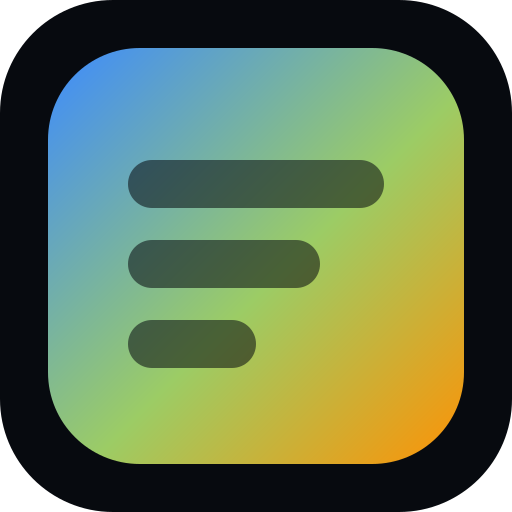
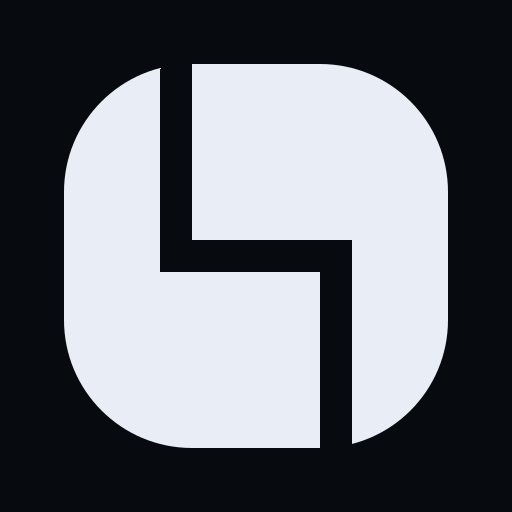
feat: one studio mark, drawn once and used everywhere
The tab and the header used to show different logos: the favicon was a
gradient square with three bars, the nav mark was a CSS gradient, and
neither knew the other existed. Now there is one drawing — two congruent
halves, each the other rotated half a turn, held apart by a seam that
turns once — and every surface renders that same file.

The shape is generated from three numbers rather than drawn by hand, so
the interlock depth, seam width and corner radius are all inspectable and
the reasoning for each sits next to it in placeholders.mjs. The favicon
is a second master on purpose: 16 pixels is not a small version of a
logo but a different drawing problem, so it drops the inset and doubles
the seam, which lands every edge on a whole pixel and leaves the icon
with no antialiased edges at all.

The mark takes the site's own text colour rather than a colour of its
own. A warm off-white survived from an earlier paper-and-ink concept and
read as grubby white beside a #e9edf5 wordmark; pure white was the other
candidate, and it made the studio mark the brightest thing in a row that
also holds three game icons — the one element there that should not
shout.

The press kit hands out both colourways, labelled by filename rather
than by prose, because that list renders in eleven languages and "for
dark backgrounds" would be English in all of them.

diff --git a/src/data/press.ts b/src/data/press.ts
@@ -38,12 +38,18 @@ export function splitAssets(gameId: GameId): { brand: PressAsset[]; screens: Pre
 }
 
 /**
- * The studio mark. Not in the manifest and not imported from anywhere: this is
- * the same file the site serves as its favicon, so the press kit hands out the
+ * The studio mark. Not in the manifest and not imported from anywhere: these
+ * are the same files the site itself renders, so the press kit hands out the
  * mark people actually see rather than a second copy that could drift from it.
+ *
+ * Both colourways are offered because the mark is monochrome by design, and a
+ * publication laying it on white should not have to invert one themselves.
  */
 export const STUDIO_MARK = [
-  { file: '/assets/brand/favicon.svg', format: 'SVG' },
+  // Labelled by filename rather than by prose: this list renders in eleven
+  // languages and "for dark backgrounds" would be English on all of them.
+  { file: '/assets/brand/mark.svg', format: 'SVG · on dark' },
+  { file: '/assets/brand/mark-ink.svg', format: 'SVG · on light' },
   { file: '/assets/brand/icon-512.png', format: '512x512 PNG' },
 ] as const;
 

diff --git a/src/styles/global.css b/src/styles/global.css
@@ -179,13 +179,14 @@ dl {
 }
 
 /* The wordmark's only graphic: three stacked bars, one per game. */
+/* The one place the mark is drawn is `public/assets/brand/mark.svg`. This used
+   to be a CSS gradient square, which meant the tab and the header showed two
+   different logos and neither knew about the other. */
 .nav__mark {
   width: 1.5rem;
   height: 1.5rem;
   flex: none;
-  border-radius: 7px;
-  background: linear-gradient(150deg, #3d8bff 0%, #9ccc65 55%, #fe9205 100%);
-  box-shadow: 0 0 0 1px rgba(255, 255, 255, 0.14) inset;
+  background: url('/assets/brand/mark.svg') center / contain no-repeat;
 }
 
 .nav__links {
